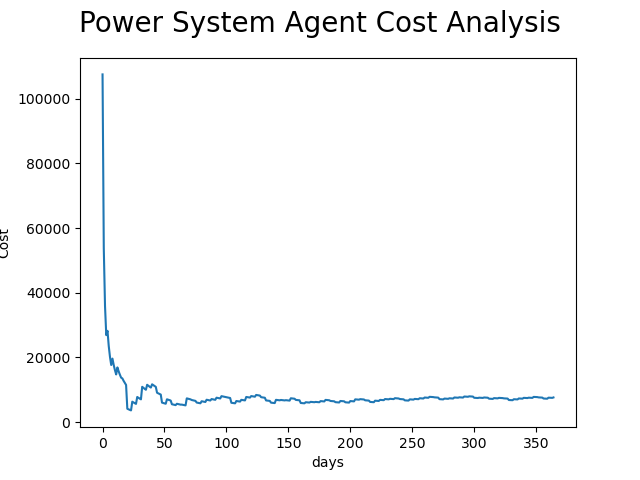
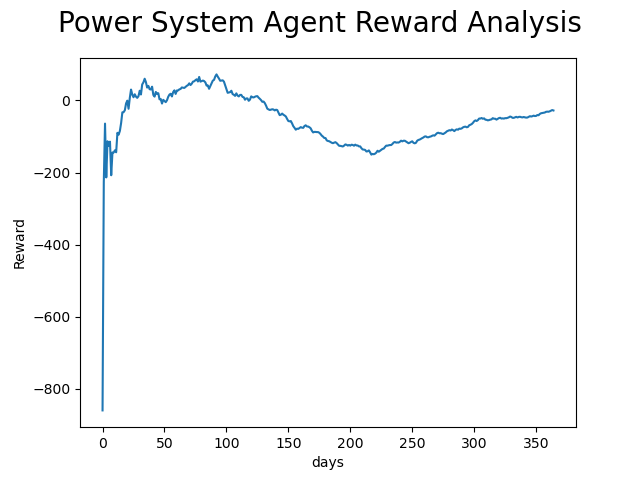
# new reward function model

diff --git a/agent.py b/agent.py
@@ -15,12 +15,12 @@ class Agent(object):
         high_state_value = self.env.state_space(PVmax, Ebmax, Dmax)
 
         num_states = high_state_value - low_state_value + 1
-        num_actions = 3
+        num_actions = 2
         if os.path.exists(q_table_path):
-            print("Q table Loading !!!")
+            print("Q table Loading !!!\n")
             self.load_q_table()
         else:
-            print("Q table Initializing !!!")
+            print("Q table Initializing !!!\n")
             self.q_table = np.random.uniform(low = -1, high = 1 , size = (num_states,num_actions))
 
     def train(self):
@@ -31,7 +31,8 @@ class Agent(object):
             day_reward = 0
             Egrid_day = 0
             state_values, state = self.env.reset()
-            while (self.env.hours[total_time_steps] != 23):
+            # print("######################### Day {} #######################".format(day))
+            while not (self.env.hours[total_time_steps] == 23 and self.env.hours[total_time_steps+1] == 0):
                 if random.uniform(0,1) < eps:
                     action =  self.env.sample_action()
                 else:
@@ -42,6 +43,7 @@ class Agent(object):
                 Ed  = state_values[2]
                 E_grid = Ed - Epv - Eb
 
+
                 if 18 <= self.env.hours[total_time_steps] < 22:
                     c = 26.6
                 elif 5 <= self.env.hours[total_time_steps] < 18:
@@ -49,23 +51,32 @@ class Agent(object):
                 else:
                     c = 15.4
 
-                cost = c*max([E_grid, 0]) + p*min([E_grid, 0])
-                reward = -cost
+                cost = cost_lr * abs(c*max([E_grid, 0]) + p*min([E_grid, 0]))
+                if action == 0:
+                    reward = min(Epv, Ebmax - Eb)
+                elif action == 1:
+                    reward = min(Ed, Eb)
+
+                reward -= cost
+                # print(reward,cost)
+
                 new_state_values, new_state = self.env.step(total_time_steps, state_values, action)
 
                 self.q_table[state,action] = (1 - learning_rate) * self.q_table[state,action] \
                                                 + learning_rate * (reward + discount_factor * np.max(self.q_table[new_state,:]))
 
-                day_reward += cost
+                day_reward += reward
                 Egrid_day += E_grid
                 state = new_state
                 state_values = new_state_values
                 total_time_steps += 1
+
+            # print(day_reward)
             total_time_steps += 1
             total_rewards_in_days.append(day_reward)
             Egrid_in_days.append(Egrid_day)
         Agent.plot_cumulative_costs(total_rewards_in_days,num_days)
-        # Agent.plot_cumulative_Egrid(Egrid_in_days,num_days)
+        Agent.plot_cumulative_Egrid(Egrid_in_days,num_days)
 
     @staticmethod
     def plot_cumulative_costs(total_rewards_in_days,num_days):
@@ -75,9 +86,9 @@ class Agent(object):
 
         fig = plt.figure()
         plt.plot(cum_average_reward)
-        fig.suptitle('Power System Agent Cost Analysis', fontsize=20)
+        fig.suptitle('Power System Agent Reward Analysis', fontsize=20)
         plt.xlabel('days')
-        plt.ylabel('Cost')
+        plt.ylabel('Reward')
         fig.savefig(cum_cost_path)
 
     @staticmethod
@@ -90,7 +101,7 @@ class Agent(object):
         plt.plot(cum_average_Egrid)
         fig.suptitle('Power System Agent Grid Power Analysis', fontsize=20)
         plt.xlabel('days')
-        plt.ylabel('Egrid')
+        plt.ylabel('Reward')
         fig.savefig(Egrid_path)
 
     def save_q_table(self):

diff --git a/env.py b/env.py
@@ -18,18 +18,24 @@ class Environment(object):
 
     @staticmethod
     def sample_action():
-        return np.random.choice([0,1, 2])
+        return np.random.choice([0,1])
 
     def step(self, time_step, prev_state_values, action):
+
+        Epv_t = prev_state_values[0]
+        Eb_t = prev_state_values[1]
+        Ed_t = prev_state_values[2]
+
         if action == 0:
             Ac, Ad = 10, 0
+            Eb_t1 = Eb_t + min(Ac, Ebmax - Eb_t)
         elif action == 1:
             Ac, Ad = 0, 10
-        elif action == 2:
-            Ac, Ad = 0, 0
+            Eb_t1 = Eb_t - min(Ad, Ed_t - Epv_t, Eb_t - Ebmin)
+        # elif action == 2:
+        #     Ac, Ad = 0, 0
+        #     Eb_t1 = Eb_t
 
-        Eb_t = prev_state_values[1]
-        Eb_t1 = Eb_t + Ac - Ad
         if Eb_t1 < Ebmin:
             Eb_t1 = Ebmin
         elif Eb_t1 > Ebmax:
@@ -41,24 +47,3 @@ class Environment(object):
         new_state_values = (pv_value, Eb_t1, demand)
         new_state = self.state_space(*new_state_values)
         return new_state_values, new_state
-
-
-
-
-
-
-
-
-
-
-
-
-
-
-
-
-
-
-
-
-# print(Environment().reset())

diff --git a/variables.py b/variables.py
@@ -1,4 +1,4 @@
-Ebmin = 0
+Ebmin = 20
 Ebmax = 100
 
 PVmin = 0
@@ -10,13 +10,14 @@ Dmax = 340
 n_bins = 10
 
 p = 22
-learning_rate = 1e-3
-eps = 0.7
+learning_rate = 1e-4
+cost_lr = 1e-2
+eps = 0.6
 discount_factor = 0.99
 num_days = 365
 
 initial_state = (PVmin, Ebmax, Dmin)
-initial_action = 2 # (charging, discharging, Nothing)
+initial_action = 2 # (0 - charging, 1 - discharging, 2 - Nothing)
 
 demand_csv_path = 'Data/demand.csv'
 data_csv_path = 'Data/solar.csv'

diff --git a/util.py b/util.py
@@ -37,6 +37,7 @@ def preprocess_final_df(df):
     df['Month'], df['Day'], df['Hour'] = zip(*df['Timestamp'].map(create_time))
     del df['Timestamp']
     return df
+    
 def get_data():
     if not os.path.exists(final_csv_path):
         preprocess_data()
